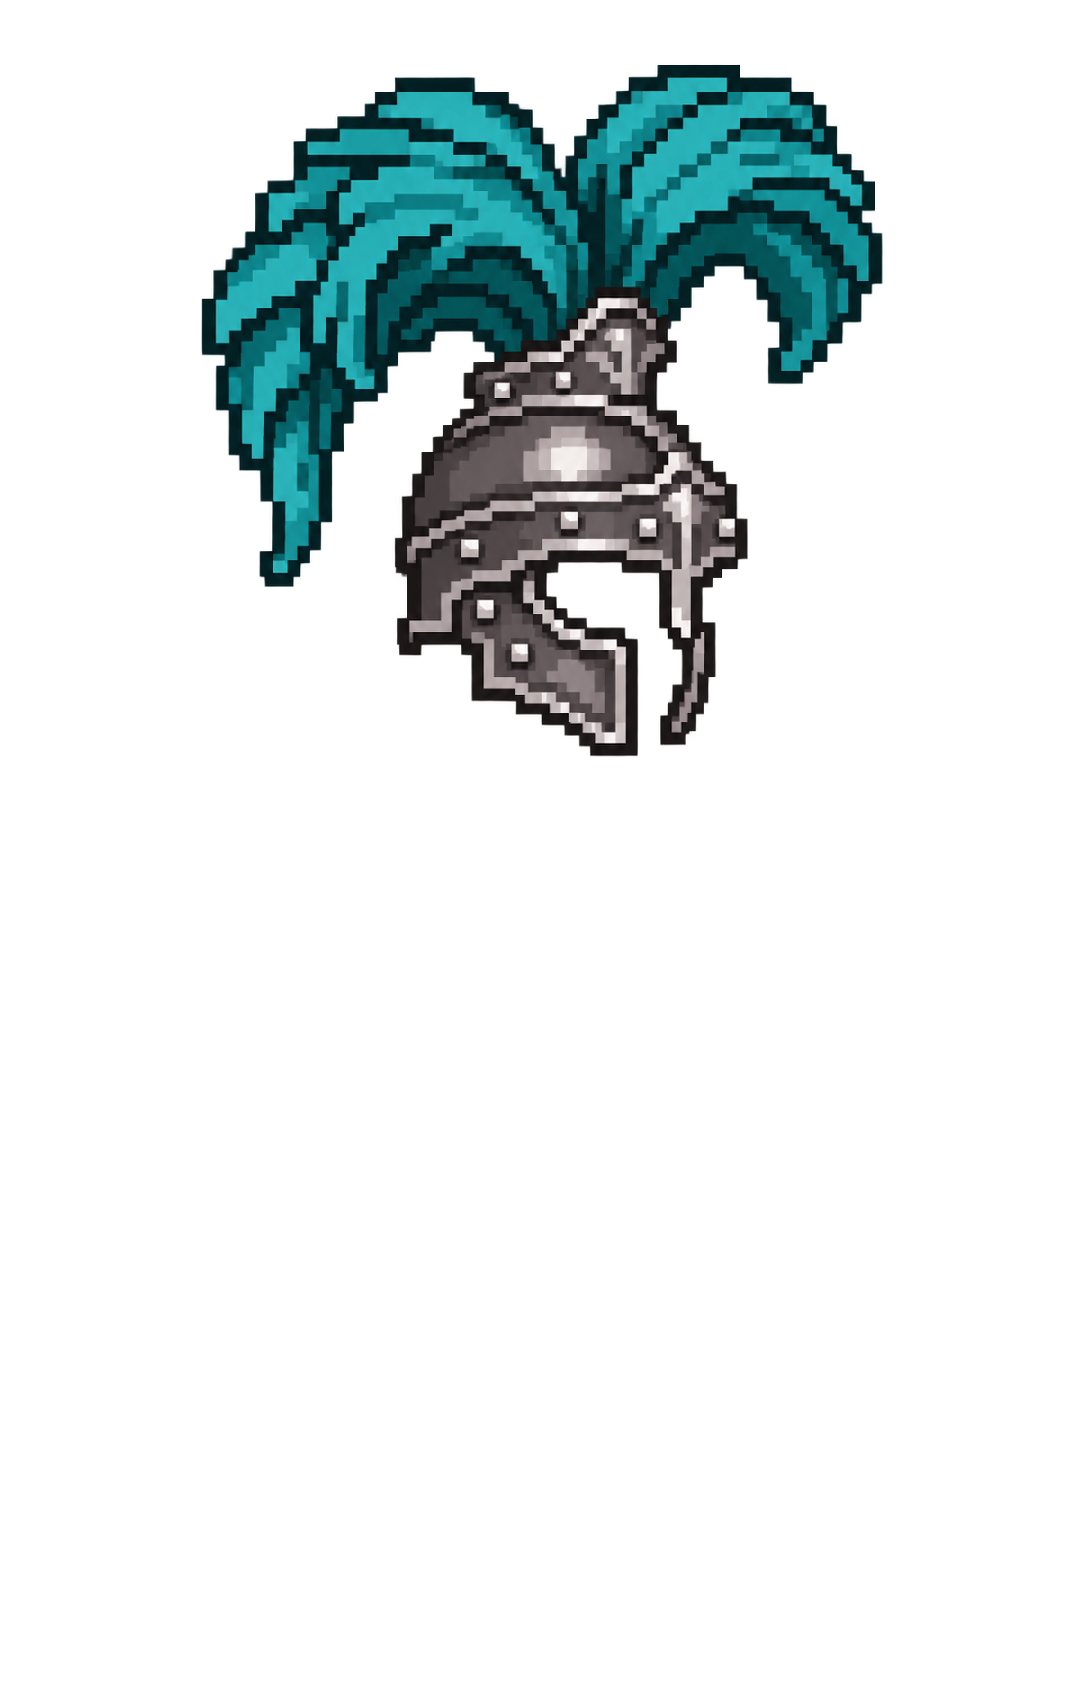
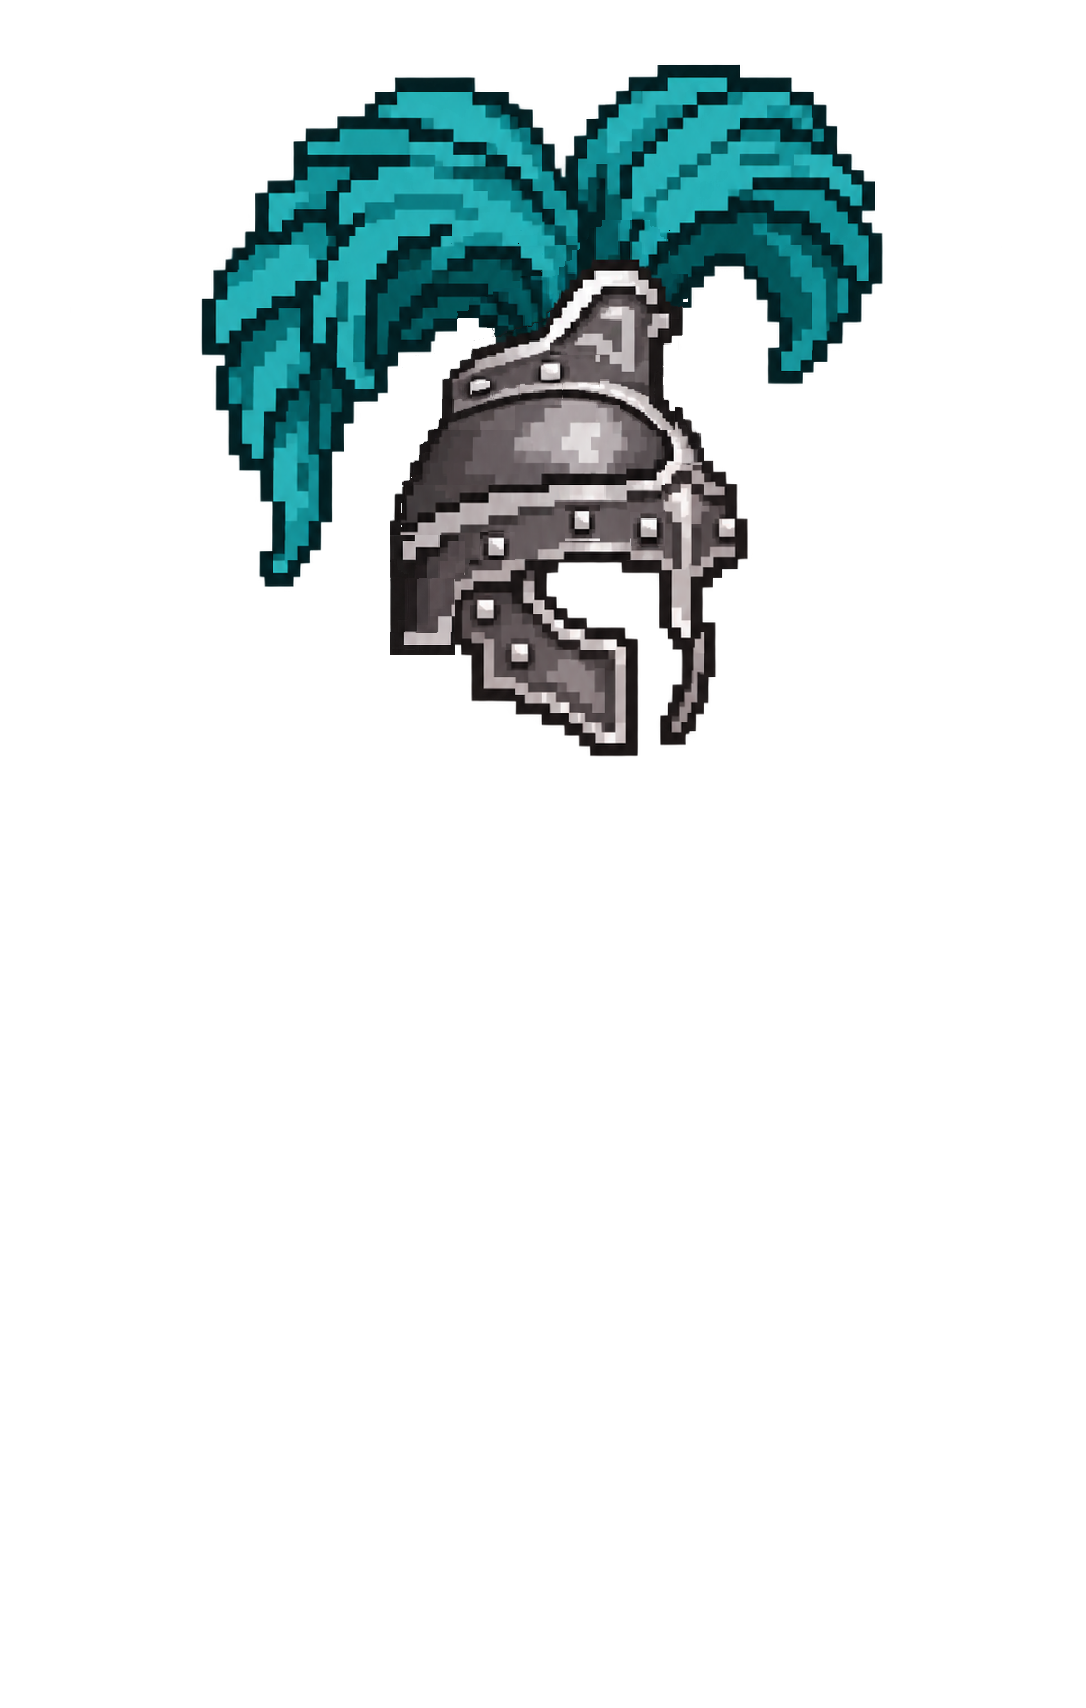
銀・青緑の承認済み兜パーツを登録 (#153)

Changed region(s): [[0.3343, 0.1241, 0.6685, 0.4034]]

diff --git a/docs/01_ゲーム企画・基本設計書.md b/docs/01_ゲーム企画・基本設計書.md
@@ -20,6 +20,7 @@
 - 着脱版の銀・角付きは、鼻当ての先をまっすぐにし、その位置に頭頂から続くリベット付き縦帯を合わせる。右側輪郭と額の独立した黒点を整理した承認済みパーツを使う。局所合成で生じた内部の透過スジと薄い残留画素は、RGBを変えずアルファだけを補正する。右側の黒い陰影は薄くする前の案を採用し、角・頬当て・人物のバランスを保つ。
 - 着脱版の黒・赤い鶏冠は、一本角に近い帽体・頬当て・鼻当ての釣り合いへ調整した承認済みパーツを使う。
 - 着脱版の黒金・紫は、帽体の前側を控えめに膨らませ、額の下向きのマークと上側の金色の留め具を、仮面の鼻筋に沿う同じ縦軸へ寄せた承認済みパーツを使う。額飾りと周囲の金縁は比較で承認した形を採用し、白い仮面とその眉帯・目・顎・羽飾り・人物の位置は保持する。留め具付近の薄い残留画素と羽飾りの縁は、RGBを維持してアルファのみ補正する。比較試案の青い中心線は公開画面へ追加しない。
+- 着脱版の銀・青緑は #153 の承認済みパーツを使う。帽体の頭頂・前後の曲線、太めの額帯、襟足の銀板を整え、銀の鶏冠の台座は帽体に沿わせて少し低くした形を採用する。画像切替版の接続形へ寄せた取消案は使わない。顔周り・人物と青緑の羽飾りのバランスを保ち、比較ページ・保存PNG・兜単体サムネイルへ反映する。元の全身画像切替版は別素材を維持する。
 - 全6兜で後ろ髪と髪の根元の補正を描かず、人物素材に残っていた襟足側の髪片も共通の装備時人物画像から除去済みとする。首・肩の形と体格、兜の意匠は保持する。兜なしと半透明比較は従来どおり元の顔と髪型を使用する。
 - サイズ比較ページは基準の顔と各兜の顔周りを同じ座標・倍率で並べる。通常表示と元の顔への半透明表示、頭頂・額・後頭部・耳側・鼻先・目・顎・兜の端の基準線のON/OFFを切り替えられる。ラベル文字のON/OFFは別に切り替えられ、初期表示では線・文字ともに表示する。線を隠すと文字も隠れて文字切替を無効にし、線を再表示したときは文字の選択状態を保つ。ラベルは「頭頂」「額」「後頭部」「耳側」「鼻先」「目」「顎」「兜の端」とし「（目安）」を付けない。「後頭部」「耳側」「鼻先」「兜の端」の文字は、画像上端の対応する縦線の位置に沿って左からこの順に置く。文字が画像に重ならないよう上側にラベル欄を設け、小さな枠でははみ出さず折り返す。文字や線の非表示時も上側欄の高さを保ち、画像の上下位置を変えない。基準線は表示サイズによらず一定の太さで重ねる。頭頂は髪を含む目安。額の横線は目から顎までと同じ距離だけ目の上に、後頭部の縦線は比較枠の左端と耳側の線の中間に置く。兜の端の縦線は、鼻先から比較枠右端までを3等分した鼻先寄りの位置に置く。いずれも補助的な目安で、実際の頭蓋骨の輪郭を確定するものではない。線は兜ごとに動かさない。
 - 比較対象は着脱版と同じ装備データから取得する。新しい兜を装備データへ追加すると、比較画面にも名前・画像が反映される。通常の合成処理も着脱版と共通にする。比較ページから装備画像を編集する機能は設けない。
@@ -58,9 +59,12 @@
 - 2026-11-21：全6兜の着用時の後ろ髪を非表示に統一する（#146）。装備時の共通人物へ髪片除去を焼き込み、元の首・肩の輪郭を保持し、金・一本角の髪の根元を重ねる処理も使わない。着脱版・比較ページの通常表示・保存PNGが対象で、兜なしと元の顔への透過比較、元の全身画像切替版は維持する。人物の髪片除去を元の首・肩の輪郭へなじませ、補正境界と範囲外の画素一致を確認。全7状態の保存PNG・全6兜の通常/透過比較が期待合成と全画素一致し、6種の後ろ髪なし・首肩保持を目視確認した。型検査・通常/Pages用ビルド、読込失敗/再試行・高速切替・390px表示・56基準線を確認済み。公開URLでの反映はマージ後に確認する。
 - 2026-11-22：銀・角付きの鼻当てと縦帯の軸を整え、右側輪郭と額の点を整理した承認済みパーツを登録する（#148）。陰影を薄くした案は採用せず、整理後の濃い陰影を保持。着脱版・比較ページ・保存PNGとサムネイルへ反映する。採用元とのRGB一致と内部透過スジの補正、全7状態の保存と全6兜の通常/透過比較、サムネイル・56基準線・390px・読込失敗/再試行・通常/Pages用ビルドを確認済み。公開URLはマージ後に確認する。
 - 2026-11-22：黒金・紫の帽体前側と額の下向きのマーク・上側の金色の留め具を整えた中心合わせ案を登録する（#151）。承認済みパーツを着脱版・比較ページ・保存PNGとサムネイルへ反映する。全7状態の保存と全6兜の通常/半透明比較、56基準線・390px幅・読込失敗/再試行・通常/Pages用ビルドを確認済み。登録時の保存PNGは承認画像と全画素一致し、レビュー後は全RGBを維持して留め具付近の49画素のアルファのみ補正した。額飾りや周囲の金縁は承認された形を保持する。試案の青い中心線は公開画面へ追加しない。公開URLへの反映はマージ後に確認する。
+- 2026-11-22：銀・青緑の帽体・額帯・襟足と鶏冠の接続を整え、台座を少し低くした承認済みパーツを登録する（#153）。独立パーツとサムネイルを更新し、着脱版・比較ページ・保存PNGへ反映する。取消済みの画像切替版の接続案は採用しない。確認結果・レビュー・公開状態は対応Issue・PRへ記録する。
 - 戦闘の構想や承認履歴は過去資料とGit履歴に保存する。現行の装備室の制約や次の作業として自動的に引き継がない。将来戦闘を再開する場合は、その時点で参照する。
 
 ## 14. 現在の状態と次の検討
+
+- #153 の銀・青緑は、台座を少し低くした案をユーザー承認済み。承認済みパーツを着脱版・比較ページ・保存PNGとサムネイルへ登録する。画像切替版の接続へ寄せた最後の試案は取消済み。検証結果・エージェントレビュー・CI・公開確認は対応Issue・PRへ記録する。
 
 - #151 の黒金・紫の中心合わせ案を承認済み。額のマークと上側の留め具を同じ軸へ寄せたパーツを登録し、RGBを保持して留め具付近の薄い残留画素と羽飾りの縁のアルファのみ補正する。承認合成との一致、全候補の保存・通常/半透明比較・失敗/再試行・390px幅・通常/Pages用ビルドを確認済み。エージェントレビューを1回実施し、指摘対応後の検証とCIはIssue・PRへ記録する。公開URLへの反映は未確認（PR未マージ）。
 
